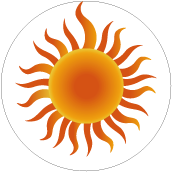
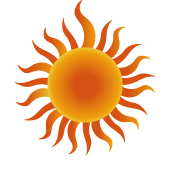
Switched out sun so its correct, got rid of any extra bits of code

diff --git a/clock.js b/clock.js
@@ -31,9 +31,6 @@ function draw_clock(obj) {
 
   background(0); //  black background
   angleMode(DEGREES);
-  fill(200); // dark grey
-  textSize(40);
-  //textAlign(CENTER, CENTER);
   let Seconds = obj.seconds;
   let Minutes = obj.minutes;
   let Hours = obj.hours;
@@ -42,15 +39,15 @@ function draw_clock(obj) {
   
   image(BackgroundImg, 0,0,960,500);
 
-  let rotMilli = map(Milliseconds, 0, 1000, 0, 360);
-  let rotS = map(Seconds, 0, 60, -90, 270);
-  let rotM = map(Minutes, 0, 60, -90, 270);
-  let rotH = map(Hours, 0 , 12, 0, 360);
+  let rotMilli = map(Milliseconds, 0, 1000, 0, 360); //rotates on the millisecond
+  let rotS = map(Seconds, 0, 60, -90, 270); // rotates on the second
+  let rotM = map(Minutes, 0, 60, -90, 270); // rotates on the minute
+  let rotH = map(Hours, 0 , 12, 0, 360); // rotates on the hour
 
   push();
   translate(480,250);
   rotate(rotH);
-  image(SunImg,-85, -85,170,170);
+  image(SunImg,-85, -85,170,170); //Sun
   pop();
 
   push();
@@ -87,7 +84,7 @@ function draw_clock(obj) {
    }
 
   
-   
+   // rocket for alarm
    xRect = 350
    yRect = 150
   
